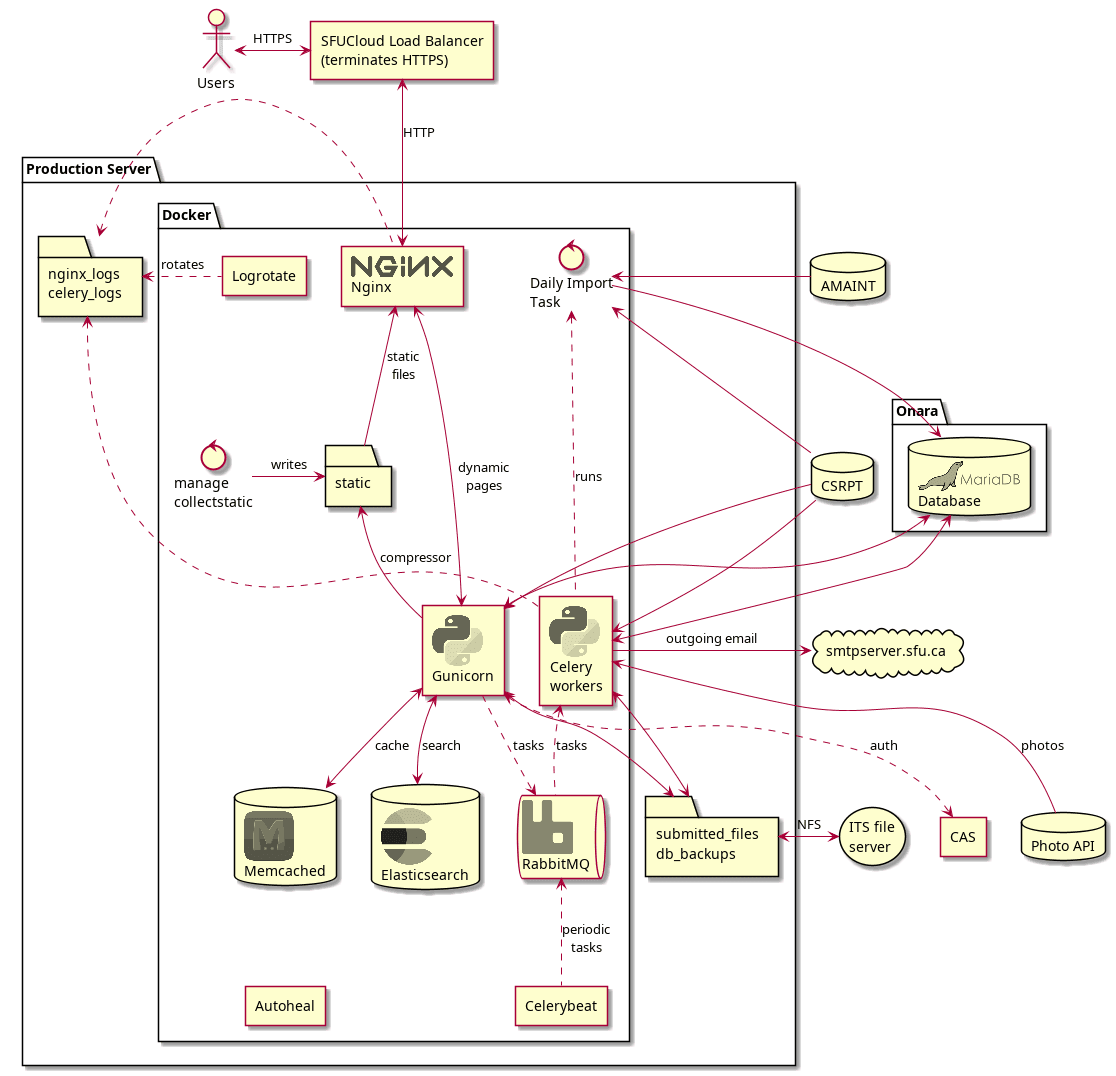
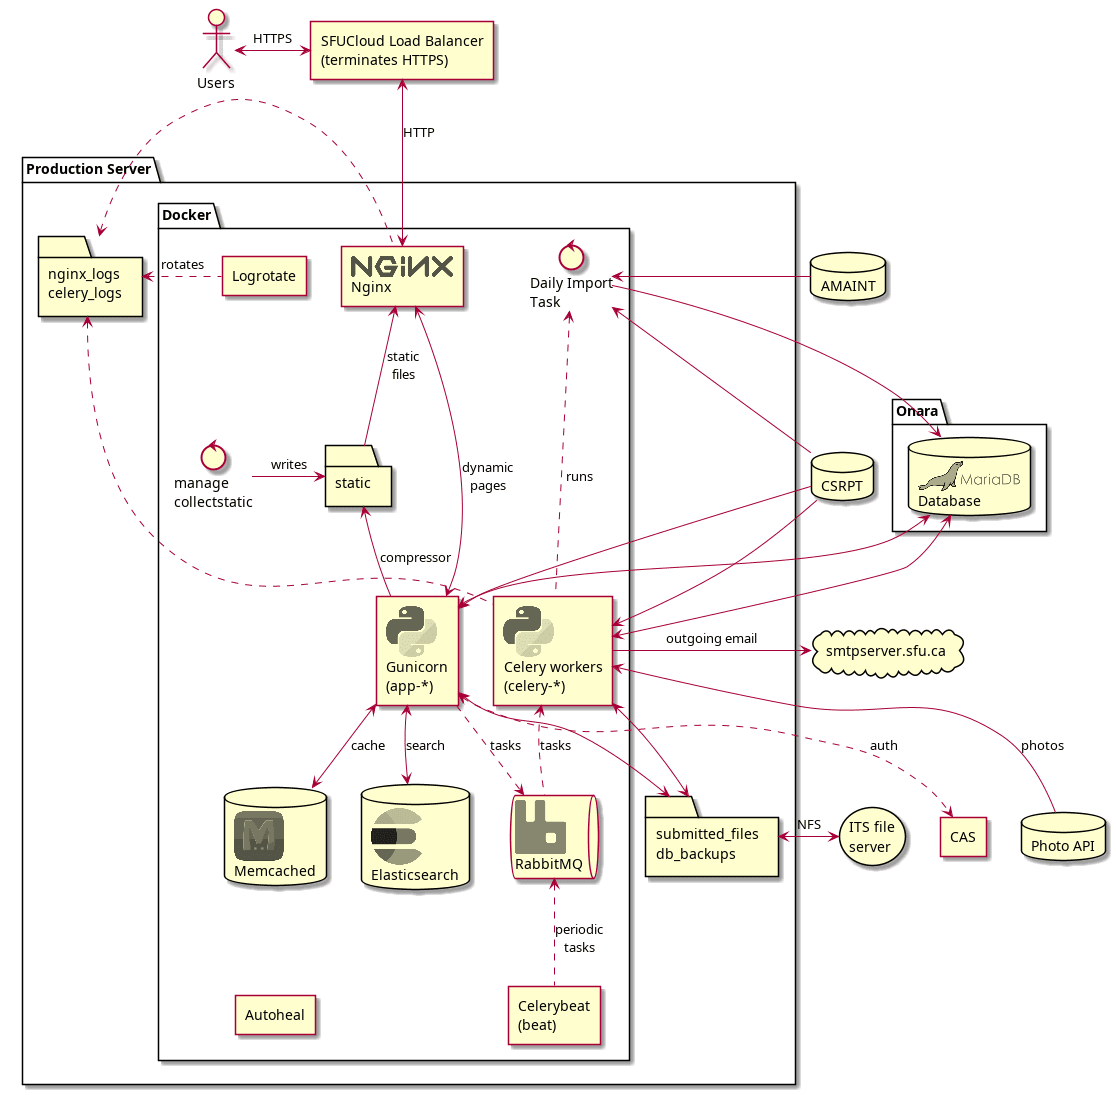
Replace docker rollout with separate Django containers for smooth switchover (#501)

diff --git a/docker/build_compose.py b/docker/build_compose.py
@@ -48,7 +48,7 @@ DEPLOYMENT_CONTEXTS = {
         "canonical_name": "coursys-demo.selfip.net",
         "user_protocol": "http",
         "user_port": 80,
-        "app_replicas": 2,
+        "app_replicas": 1,
         "dev_services": True,
         "service_secrets": True,
     },
@@ -62,7 +62,7 @@ DEPLOYMENT_CONTEXTS = {
         "canonical_name": "coursys.sfu.ca",
         "user_protocol": "https",
         "user_port": 443,
-        "app_replicas": 2,
+        "app_replicas": 1,
         "dev_services": False,
         "service_secrets": True,
     },

diff --git a/instructions/SYSADMIN.md b/instructions/SYSADMIN.md
@@ -147,7 +147,7 @@ docker compose kill -s SIGHUP app
 
 ## In Case of Problems
 
-The *hope* is that we have enough system checks that if the system comes up, it comes up correctly. Running `make new-code` uses docker-rollout, which checks the health status of the main Django container (`app`) and waits to bring down the old containers until the new ones are healthy. If that fails, it also leaves the various Celery containers as-is. In theory, that should prevent broken deployments from taking over.
+The *hope* is that we have enough system checks that if the system comes up, it comes up correctly. Running `make new-code` does a rolling restart, draining requests to and restarting the main Django containers (`app-*`) in turn. If that fails, it also leaves the various Celery containers as-is. In theory, that should prevent broken deployments from taking over.
 
 If there's any confusion, it might be informative to run the Django container in various ways to see what's going on. Perhaps one of:
 ```shell

diff --git a/instructions/DOCKER_PRODDEV.md b/instructions/DOCKER_PRODDEV.md
@@ -9,7 +9,6 @@ Set up a proddev docker world:
 ```sh
 ln -s compose-proddev.yml compose.yml  # or otherwise copy/link compose-proddev.yml to compose.yml
 cp secrets/app-config-template.toml secrets/app-config.toml
-make get-docker-rollout
 ```
 
 Get things started:

diff --git a/instructions/DEMO_SERVER_SETUP.md b/instructions/DEMO_SERVER_SETUP.md
@@ -41,7 +41,6 @@ Log out and back in so the group membership takes effect.
 
 ```shell
 cd /coursys
-make get-docker-rollout
 docker compose pull
 docker compose build --pull
 docker compose up -d mysql elasticsearch rabbitmq memcached
